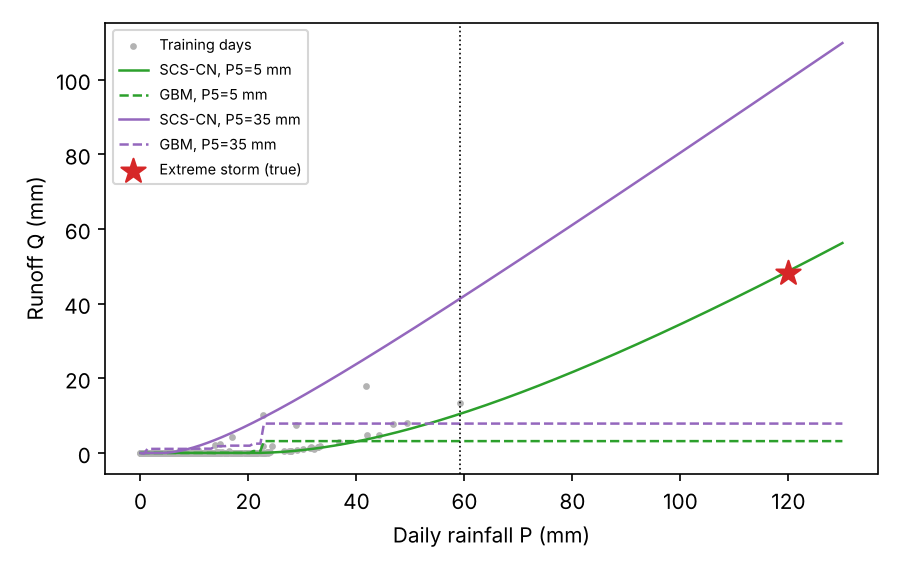
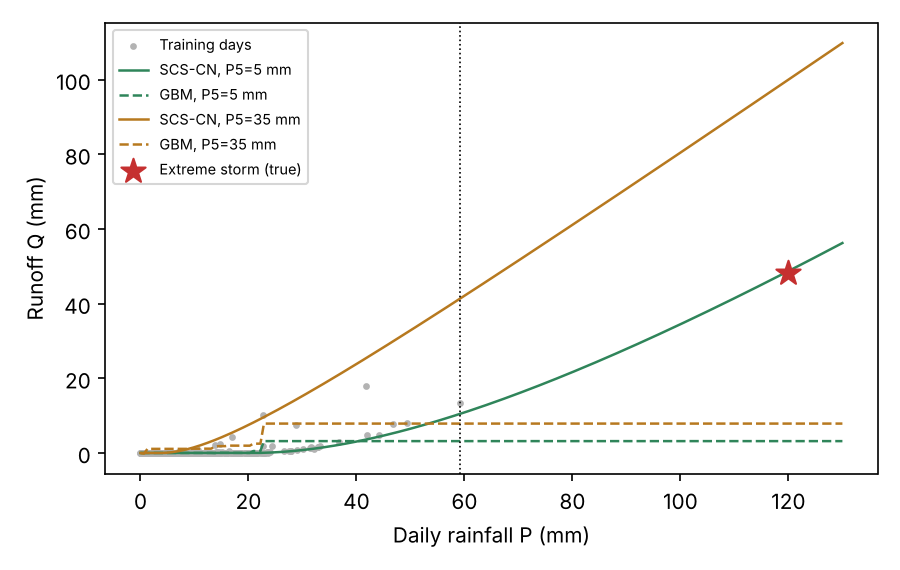
Renumber chapter 16 figures, unify plot colours in chapters 13-18, clearer message when Kaggle data are missing

diff --git a/code/ch15.py b/code/ch15.py
@@ -40,10 +40,10 @@ print("  GBM 10-90%% interval coverage: all 2025=%.0f%%  heatwave=%.0f%% (nomina
 fig, ax = plt.subplots(figsize=(9, 3.6))
 w = (d[te] >= "2025-06-15") & (d[te] <= "2025-09-15")
 dd = d[te][w]
-ax.fill_between(dd, qs[0.1][w], qs[0.9][w], color="tab:blue", alpha=0.2, label="GBM 10-90% interval")
+ax.fill_between(dd, qs[0.1][w], qs[0.9][w], color="#2B6CB0", alpha=0.2, label="GBM 10-90% interval")
 ax.plot(dd, yt[w], "k", lw=1.2, label="Observed")
-ax.plot(dd, pg[w], color="tab:blue", lw=1, label="GBM")
-ax.plot(dd, pl[w], color="tab:red", lw=1, ls="--", label="Linear with T and (T-28)+^2")
+ax.plot(dd, pg[w], color="#2B6CB0", lw=1, label="GBM")
+ax.plot(dd, pl[w], color="#C53030", lw=1, ls="--", label="Linear with T and (T-28)+^2")
 ax.axvspan(pd.Timestamp("2025-08-05"), pd.Timestamp("2025-08-18"), color="orange", alpha=0.15, label="Heatwave (unseen T)")
 ax.set_ylabel("Demand (1000 m3/day)"); ax.legend(fontsize=7, ncol=2); ax.tick_params(axis="x", labelsize=8)
 plt.tight_layout(); plt.savefig("fig/fig15_1_demand.png", dpi=150); plt.close()
@@ -94,10 +94,10 @@ x = dma(True, 2.0)
 m, s = x[:30].mean(), x[:30].std(ddof=1); z = (x - m) / s; c = np.zeros(len(x))
 for i in range(30, len(x)): c[i] = max(0, c[i - 1] + z[i] - 0.5)
 ax[0].plot(x, "k", lw=1, label="Min night flow")
-ax[0].axhline(m + 3 * s, color="tab:orange", ls="--", label="Shewhart limit")
-ax[0].axvline(60, color="tab:red", ls=":", label="Leak starts (+2 m3/h)")
+ax[0].axhline(m + 3 * s, color="#C05621", ls="--", label="Shewhart limit")
+ax[0].axvline(60, color="#C53030", ls=":", label="Leak starts (+2 m3/h)")
 ax[0].set_xlabel("Day"); ax[0].set_ylabel("MNF (m3/h)"); ax[0].legend(fontsize=7, loc="upper left")
-a2 = ax[0].twinx(); a2.plot(c, color="tab:blue", lw=1); a2.axhline(5, color="tab:blue", ls=":", lw=0.8); a2.set_ylabel("CUSUM", color="tab:blue")
+a2 = ax[0].twinx(); a2.plot(c, color="#2B6CB0", lw=1); a2.axhline(5, color="#2B6CB0", ls=":", lw=0.8); a2.set_ylabel("CUSUM", color="#2B6CB0")
 for (name, fa, res), mk in zip(rows, ["o", "s", "^"]):
     ax[1].plot(sizes, [100 * r[0] for r in res], marker=mk, label=name)
 ax[1].set_xlabel("Leak size (m3/h)"); ax[1].set_ylabel("Detected within 30 d (%)"); ax[1].legend(fontsize=7)
@@ -135,11 +135,11 @@ print("  extreme storm P=%.0f mm, P5=%.0f mm: true Q=%.1f mm  GBM=%.1f mm  SCS-C
 fig, ax = plt.subplots(figsize=(6, 3.8))
 ax.scatter(P[tr & (P > 0)], Q[tr & (P > 0)], s=5, color="0.7", label="Training days")
 pp = np.linspace(0, 130, 200)
-for p5, col in [(5, "tab:green"), (35, "tab:purple")]:
+for p5, col in [(5, "#2F855A"), (35, "#B7791F")]:
     cn = cn1 if p5 < 13 else (cn2 if p5 < 28 else cn3)
     ax.plot(pp, scs(pp, cn), color=col, lw=1.2, label="SCS-CN, P5=%d mm" % p5)
     ax.plot(pp, gbq.predict(np.column_stack([pp, np.full_like(pp, p5)])), color=col, ls="--", lw=1.2, label="GBM, P5=%d mm" % p5)
-ax.scatter([P[i]], [Q[i]], marker="*", s=150, color="tab:red", zorder=5, label="Extreme storm (true)")
+ax.scatter([P[i]], [Q[i]], marker="*", s=150, color="#C53030", zorder=5, label="Extreme storm (true)")
 ax.axvline(P[tr].max(), color="k", ls=":", lw=0.8)
 ax.set_xlabel("Daily rainfall P (mm)"); ax.set_ylabel("Runoff Q (mm)"); ax.legend(fontsize=7)
 plt.tight_layout(); plt.savefig("fig/fig15_3_runoff.png", dpi=150); plt.close()

diff --git a/code/ch14.py b/code/ch14.py
@@ -57,8 +57,8 @@ w1 = (test.index >= "2026-01-11") & (test.index < "2026-01-18")
 w2 = (test.index >= "2026-03-01") & (test.index < "2026-03-08")
 for a, w, t in [(ax[0], w1, "Normal week (Jan 2026)"), (ax[1], w2, "Ramadan week (Mar 2026)")]:
     a.plot(test.index[w], test.y.values[w], "k", lw=1.2, label="Observed")
-    a.plot(test.index[w], pn[w], color="tab:orange", lw=1, ls="--", label="Seasonal naive (t-168h)")
-    a.plot(test.index[w], pg[w], color="tab:blue", lw=1, label="GBM + calendar")
+    a.plot(test.index[w], pn[w], color="#C05621", lw=1, ls="--", label="Seasonal naive (t-168h)")
+    a.plot(test.index[w], pg[w], color="#2B6CB0", lw=1, label="GBM + calendar")
     a.set_title(t); a.set_ylabel("Vehicles / hour"); a.tick_params(axis="x", rotation=30, labelsize=7)
 ax[0].legend(fontsize=7)
 plt.tight_layout(); plt.savefig("fig/fig14_1_traffic.png", dpi=150); plt.close()
@@ -132,10 +132,10 @@ for prof in ["steady", "shift"]:
     print("  demand=%-6s mean delay Webster fixed=%.1f  Webster time-of-day=%.1f  Q-learning=%.1f s/veh" % (prof, np.mean(w), np.mean(td), np.mean(rl)))
 fig, ax = plt.subplots(figsize=(6, 3.6))
 cv = np.array(curve)
-ax.plot(cv[:, 0], cv[:, 1], "o-", color="tab:blue", label="Q-learning, steady demand")
-ax.plot(cv[:, 0], cv[:, 2], "s-", color="tab:red", label="Q-learning, shifting peak")
-ax.axhline(res["steady"][0], color="tab:blue", ls="--", label="Webster fixed, steady")
-ax.axhline(res["shift"][0], color="tab:red", ls="--", label="Webster fixed, shifting")
+ax.plot(cv[:, 0], cv[:, 1], "o-", color="#2B6CB0", label="Q-learning, steady demand")
+ax.plot(cv[:, 0], cv[:, 2], "s-", color="#C53030", label="Q-learning, shifting peak")
+ax.axhline(res["steady"][0], color="#2B6CB0", ls="--", label="Webster fixed, steady")
+ax.axhline(res["shift"][0], color="#C53030", ls="--", label="Webster fixed, shifting")
 ax.set_yscale("log"); ax.set_xlabel("Training episodes (1 h each)"); ax.set_ylabel("Mean delay (s/veh, log scale)"); ax.legend(fontsize=7)
 plt.tight_layout(); plt.savefig("fig/fig14_2_signal.png", dpi=150); plt.close()
 
@@ -176,10 +176,10 @@ print("  overlap with true top-5%% excess sites: raw=%d/%d EB-excess=%d/%d" %
       (len(tt & set(top_raw)), k, len(tt & set(np.argsort(-(eb - mu_hat))[:k])), k))
 fig, ax = plt.subplots(figsize=(6, 3.8))
 ax.scatter(y1, y2, s=6, color="0.75", label="All segments")
-ax.scatter(y1[top_raw], y2[top_raw], s=14, color="tab:red", label="Top 5% by raw count")
+ax.scatter(y1[top_raw], y2[top_raw], s=14, color="#C53030", label="Top 5% by raw count")
 ax.plot([0, y1.max()], [0, y1.max()], "k--", lw=0.8)
-ax.axhline(y2[top_raw].mean(), color="tab:red", ls=":", lw=1)
-ax.axvline(y1[top_raw].mean(), color="tab:red", ls=":", lw=1)
+ax.axhline(y2[top_raw].mean(), color="#C53030", ls=":", lw=1)
+ax.axvline(y1[top_raw].mean(), color="#C53030", ls=":", lw=1)
 ax.set_xlabel("Crashes, period 1 (3 yr)"); ax.set_ylabel("Crashes, period 2 (3 yr)"); ax.legend(fontsize=8)
 plt.tight_layout(); plt.savefig("fig/fig14_3_hotspots.png", dpi=150); plt.close()
 

diff --git a/code/ch16.py b/code/ch16.py
@@ -65,12 +65,12 @@ print("  support reaction check w(1): PINN=%.5f data-only=%.5f (should be 0)" % 
 
 fig, ax = plt.subplots(1, 2, figsize=(10, 3.6))
 ax[0].plot(xs, we, "k", lw=2, label="Exact")
-ax[0].plot(xs, wp, "--", color="tab:orange", lw=1.5, label="PINN (no data)")
+ax[0].plot(xs, wp, "--", color="#C05621", lw=1.5, label="PINN (no data)")
 ax[0].set_xlabel("x / L"); ax[0].set_ylabel("w EI / (q L^4)"); ax[0].invert_yaxis(); ax[0].legend(fontsize=8)
 ax[0].set_title("Forward problem")
 ax[1].plot(xs, wt, "k", lw=2, label="True (EI = 0.8)")
-ax[1].plot(xs, wi, "--", color="tab:blue", lw=1.5, label="Inverse PINN (EI = %.3f)" % EI_hat)
-ax[1].plot(xs, wd, ":", color="tab:red", lw=1.8, label="Data-only MLP")
+ax[1].plot(xs, wi, "--", color="#2B6CB0", lw=1.5, label="Inverse PINN (EI = %.3f)" % EI_hat)
+ax[1].plot(xs, wd, ":", color="#C53030", lw=1.8, label="Data-only MLP")
 ax[1].scatter(xsens, wsens, color="k", zorder=5, label="5 sensors")
 ax[1].set_xlabel("x / L"); ax[1].set_ylabel("w (nondimensional)"); ax[1].invert_yaxis(); ax[1].legend(fontsize=7)
 ax[1].set_title("Inverse problem")
@@ -105,8 +105,8 @@ print("  deflection increase implied at month 71: %.1f%% (true %.1f%%)" % (100 *
 fig, ax = plt.subplots(figsize=(7, 3.6))
 ax.scatter(months, z, s=10, color="0.6", label="Single-month estimate (f/f0)^2")
 ax.plot(months, theta, "k", lw=2, label="True stiffness ratio")
-ax.plot(months, M, color="tab:blue", lw=1.5, label="Twin posterior mean")
-ax.fill_between(months, M - 2 * S, M + 2 * S, color="tab:blue", alpha=0.2, label="95% band")
-ax.axhline(0.97, color="tab:red", ls="--", lw=1, label="Inspection trigger 0.97")
+ax.plot(months, M, color="#2B6CB0", lw=1.5, label="Twin posterior mean")
+ax.fill_between(months, M - 2 * S, M + 2 * S, color="#2B6CB0", alpha=0.2, label="95% band")
+ax.axhline(0.97, color="#C53030", ls="--", lw=1, label="Inspection trigger 0.97")
 ax.set_xlabel("Month"); ax.set_ylabel("Stiffness ratio theta"); ax.legend(fontsize=7, loc="lower left")
-plt.tight_layout(); plt.savefig("fig/fig16_2_twin.png", dpi=150); plt.close()
+plt.tight_layout(); plt.savefig("fig/fig16_3_twin.png", dpi=150); plt.close()

diff --git a/code/ch17.py b/code/ch17.py
@@ -74,8 +74,8 @@ for q, ans in cases:
 
 fig, ax = plt.subplots(figsize=(7.5, 3.6))
 names = list(res); x = np.arange(len(names))
-ax.bar(x - 0.18, [100 * res[n][0] for n in names], 0.36, label="hit@1", color="tab:blue")
-ax.bar(x + 0.18, [100 * res[n][1] for n in names], 0.36, label="hit@3", color="tab:orange")
+ax.bar(x - 0.18, [100 * res[n][0] for n in names], 0.36, label="hit@1", color="#2B6CB0")
+ax.bar(x + 0.18, [100 * res[n][1] for n in names], 0.36, label="hit@3", color="#C05621")
 ax.set_xticks(x); ax.set_xticklabels(names, rotation=15, fontsize=8); ax.set_ylabel("Questions answered (%)")
 ax.set_ylim(0, 100); ax.legend(fontsize=8)
 for i, n in enumerate(names):
@@ -87,12 +87,12 @@ fig, ax = plt.subplots(figsize=(9, 2.6)); ax.axis("off")
 boxes = [("Engineer's\nquestion", 0.06), ("Normalise +\nretrieve top-3", 0.25), ("Snippets with\nclause IDs", 0.44),
          ("LLM drafts answer\nciting snippets", 0.63), ("Numeric & citation\nguard", 0.80), ("Engineer\nreviews & signs", 0.95)]
 for t, xc in boxes:
-    ax.add_patch(plt.Rectangle((xc - 0.075, 0.3), 0.15, 0.4, fill=True, fc="#e8f0fb", ec="tab:blue"))
+    ax.add_patch(plt.Rectangle((xc - 0.075, 0.3), 0.15, 0.4, fill=True, fc="#e8f0fb", ec="#2B6CB0"))
     ax.text(xc, 0.5, t, ha="center", va="center", fontsize=8)
 for (_, a), (_, b) in zip(boxes[:-1], boxes[1:]):
     ax.annotate("", xy=(b - 0.077, 0.5), xytext=(a + 0.077, 0.5), arrowprops=dict(arrowstyle="->"))
-ax.annotate("", xy=(0.63, 0.28), xytext=(0.80, 0.28), arrowprops=dict(arrowstyle="->", color="tab:red", connectionstyle="arc3,rad=0.5"))
-ax.text(0.715, 0.05, "flag -> regenerate or escalate", ha="center", fontsize=7, color="tab:red")
+ax.annotate("", xy=(0.63, 0.28), xytext=(0.80, 0.28), arrowprops=dict(arrowstyle="->", color="#C53030", connectionstyle="arc3,rad=0.5"))
+ax.text(0.715, 0.05, "flag -> regenerate or escalate", ha="center", fontsize=7, color="#C53030")
 ax.set_xlim(0, 1.03); ax.set_ylim(0, 1)
 plt.tight_layout(); plt.savefig("fig/fig17_2_pipeline.png", dpi=150); plt.close()
 

diff --git a/code/ch18.py b/code/ch18.py
@@ -27,9 +27,9 @@ print("  'best seed' random split vs honest median by mix: %.2f vs %.2f MPa (opt
 
 fig, ax = plt.subplots(figsize=(6.5, 3.5))
 bins = np.linspace(min(rand.min(), grp.min()) - 0.1, max(rand.max(), grp.max()) + 0.1, 22)
-ax.hist(rand, bins=bins, alpha=0.6, color="tab:orange", label="Random split (leaky)")
-ax.hist(grp, bins=bins, alpha=0.6, color="tab:blue", label="Split by mix (honest)")
-ax.axvline(rand.min(), color="tab:orange", ls="--", lw=1); ax.text(rand.min(), ax.get_ylim()[1] * 0.9, " best seed", color="tab:orange", fontsize=8)
+ax.hist(rand, bins=bins, alpha=0.6, color="#C05621", label="Random split (leaky)")
+ax.hist(grp, bins=bins, alpha=0.6, color="#2B6CB0", label="Split by mix (honest)")
+ax.axvline(rand.min(), color="#C05621", ls="--", lw=1); ax.text(rand.min(), ax.get_ylim()[1] * 0.9, " best seed", color="#C05621", fontsize=8)
 ax.set_xlabel("Test MAE (MPa)"); ax.set_ylabel("Number of seeds (of 30)"); ax.legend(fontsize=8)
 plt.tight_layout(); plt.savefig("fig/fig18_1_seeds.png", dpi=150); plt.close()
 
@@ -63,7 +63,7 @@ for k, p in P.items():
           (k, brier_score_loss(yt, p), ece(p, yt), p.mean(), yt.mean(), (p > 0.5).sum(), yt[p > 0.5].sum()))
 fig, ax = plt.subplots(figsize=(5, 4.2))
 edges = np.linspace(0, 1, 11)
-for (k, p), col, mk in zip(P.items(), ["tab:red", "tab:green", "tab:blue"], ["o", "s", "^"]):
+for (k, p), col, mk in zip(P.items(), ["#C53030", "#2F855A", "#2B6CB0"], ["o", "s", "^"]):
     xs, ys = [], []
     for a, b in zip(edges[:-1], edges[1:]):
         sel = (p >= a) & (p < b) if b < 1 else (p >= a)

diff --git a/code/ch13_elasto.py b/code/ch13_elasto.py
@@ -62,12 +62,12 @@ fig, ax = plt.subplots(1, 2, figsize=(10, 3.6))
 ff = np.linspace(100, 2000, 200); ww = 2 * np.pi * ff
 ax[0].scatter(f, c_obs, color="k", s=15, label="Measured (synthetic, 2% noise)")
 ax[0].plot(ff, c_at(true["mu"], true["eta"], true["a"], ww), "k", lw=1, label="True (spring-pot, a=0.35)")
-ax[0].plot(ff, c_at(pk[0], pk[1], 1.0, ww), "--", color="tab:red", label="Kelvin-Voigt fit")
-ax[0].plot(ff, c_at(*pf, ww), ":", color="tab:blue", lw=2, label="KVFD fit")
+ax[0].plot(ff, c_at(pk[0], pk[1], 1.0, ww), "--", color="#C53030", label="Kelvin-Voigt fit")
+ax[0].plot(ff, c_at(*pf, ww), ":", color="#2B6CB0", lw=2, label="KVFD fit")
 ax[0].axvspan(1000, 2000, color="0.9"); ax[0].text(1050, ax[0].get_ylim()[0] + 0.3, "extrapolation", fontsize=8)
 ax[0].set_xlabel("Frequency (Hz)"); ax[0].set_ylabel("Shear-wave phase velocity (m/s)"); ax[0].legend(fontsize=7)
-ax[1].scatter(a_t, LS[:, 2], s=6, color="tab:orange", label="Least squares")
-ax[1].scatter(a_t, P[:, 2], s=6, color="tab:blue", label="Learned (GBM)")
+ax[1].scatter(a_t, LS[:, 2], s=6, color="#C05621", label="Least squares")
+ax[1].scatter(a_t, P[:, 2], s=6, color="#2B6CB0", label="Learned (GBM)")
 ax[1].plot([0.1, 0.9], [0.1, 0.9], "k--", lw=0.8)
 ax[1].set_xlabel("True fractional order alpha"); ax[1].set_ylabel("Estimated alpha"); ax[1].legend(fontsize=7)
 plt.tight_layout(); plt.savefig("fig/fig13_4_elasto.png", dpi=150); plt.close()

diff --git a/code/ch_kaggle.py b/code/ch_kaggle.py
@@ -15,6 +15,12 @@ from sklearn.metrics import r2_score, mean_absolute_error
 from sklearn.inspection import permutation_importance
 
 D = os.environ.get("KAGGLE_DIR", "kaggle_dl"); F = "fig"; os.makedirs(F, exist_ok=True)
+_need = ["slope_stability/slope_stability_dataset.csv", "sustainable_concrete/sustainable_concrete_dataset.csv",
+         "frp_bond/concrete_data.csv", "seattle_energy/2016-building-energy-benchmarking.csv"]
+_miss = [n for n in _need if not os.path.exists(os.path.join(D, n))]
+if _miss or not glob.glob(f"{D}/melbourne_ww/*.csv"):
+    raise SystemExit("Kaggle data not found in '%s'. Download the five datasets listed in catalog/ "
+                     "(see Appendix B) into that folder, or set KAGGLE_DIR. Missing: %s" % (D, ", ".join(_miss) or "melbourne_ww/*.csv"))
 out = {}
 
 # ---------- K1: data audit ----------

diff --git a/code/solutions.py b/code/solutions.py
@@ -17,6 +17,6 @@ cn3 = 23*80/(10+0.13*80)
 print("  CN=80: Q=%.1f mm ; CN_III=%.1f: Q=%.1f mm" % (scs(60, 80), cn3, scs(60, cn3)))
 print("Ch15 Ex2: leak 2 m3/h for one year")
 v = 2*24*365; print("  volume=%d m3 = weekly use of %.0f households for a year (4 m3/week -> %.0f m3/yr)" % (v, v/(4*52), 4*52))
-print("Ch18 Ex1: predicted 0.8 for 100 bridges, 50 failed -> observed 0.50, overconfident by %.0f points" % ((0.8-0.5)*100))
+print("Ch18 Ex1: predicted 0.8 for 100 slopes, 50 failed -> observed 0.50, overconfident by %.0f points" % ((0.8-0.5)*100))
 print("Ch10/Ch18: reliability index for Pf=7.5%%: beta=%.2f ; Pf for beta=3.0: %.2e" % (-norm.ppf(0.075), norm.cdf(-3)))
 print("Ch16 Ex1: cantilever max deflection (EI w''''=q, L=1): exact qL^4/(8EI) = %.4f" % (1/8))

diff --git a/code/ex_c.py b/code/ex_c.py
@@ -56,7 +56,7 @@ for n_,c in [(1,O),(8,B)]:
     m_=np.trapezoid(grid*post,grid); l_,h_=grid[np.searchsorted(cdf,0.025)],grid[np.searchsorted(cdf,0.975)]
     print(f"  after {n_} test(s): posterior mean {m_/1e9:.2f}, 95% interval {l_/1e9:.2f}-{h_/1e9:.2f} GN.m2"); ax.plot(grid/1e9,post*1e9,color=c,label=f"posterior after {n_} test{'s' if n_>1 else ''}")
 ax.axvline(EI_true/1e9,color=R,ls=":"); ax.set_xlabel("EI (GN.m2)"); ax.set_ylabel("Probability density"); ax.legend(frameon=False,fontsize=8); clean(ax)
-fig.tight_layout(); fig.savefig("fig/fig16_4_bayes.png",dpi=200); plt.close()
+fig.tight_layout(); fig.savefig("fig/fig16_5_bayes.png",dpi=200); plt.close()
 
 # ---- Example 17.3: how good is the numeric guard? a systematic test
 from ch17_corpus import DOCS

diff --git a/code/ex_diagrams.py b/code/ex_diagrams.py
@@ -62,7 +62,7 @@ for i,(t,sub) in enumerate([("Digital model","no automatic data flow"),("Digital
     if i>=1: arr(ax,(x+1.42,2.9),(x+1.98,2.9),c=G); ax.text(x+1.7,3.25,"data",ha="center",fontsize=7,color=G)
     if i==2: arr(ax,(x+1.98,2.5),(x+1.42,2.5),c=R); ax.text(x+1.7,1.95,"decision / control",ha="center",fontsize=7,color=R)
 ax.text(6,0.8,"Example 16.3 updates one stiffness parameter from frequency and raises an inspection alert: a digital shadow.",ha="center",fontsize=8)
-save(fig,"fig16_5_twinlevels.png")
+save(fig,"fig16_2_twinlevels.png")
 
 # 13.6 monitoring pipeline
 fig,ax=plt.subplots(figsize=(9,2.2)); ax.axis("off"); ax.set_xlim(0,1); ax.set_ylim(0,1)

diff --git a/code/ch16b.py b/code/ch16b.py
@@ -21,4 +21,4 @@ for k, c in zip(pred, ["#718096", "#c53030", "#2b6cb0"]):
     ax.scatter(P[m], pred[k][m], s=6, color=c, label=k, alpha=.6)
 ax.scatter(P[m], Q[m], s=6, color="k", label="observed", alpha=.5); ax.axvline(60, ls="--", c="k", lw=.8); ax.text(62, 2, "outside training range", fontsize=8)
 ax.set_xlabel("Storm depth P (mm)"); ax.set_ylabel("Runoff Q (mm), CN 75-81"); ax.legend(frameon=False, fontsize=7); ax.spines[["top", "right"]].set_visible(False)
-fig.tight_layout(); fig.savefig("fig/fig16_3_hybrid.png", dpi=200)
+fig.tight_layout(); fig.savefig("fig/fig16_4_hybrid.png", dpi=200)

diff --git a/code/design/diagrams3.py b/code/design/diagrams3.py
@@ -35,4 +35,4 @@ for i, (t, sub, c, up, down) in enumerate(lv):
     arrow(ax, (x0+2.12, 1.72), (x0+1.63, 1.72), cu, 2.2, ls="-" if up == "آلي" else "--")
     arrow(ax, (x0+1.63, 1.28), (x0+2.12, 1.28), cd, 2.2, ls="-" if down == "آلي" else "--")
     ax.text(x0+1.875, 0.55, f"بيانات ← نموذج: {up}    قرار ← منشأة: {down}", ha="center", fontsize=10, color=NAVY)
-save(fig, F + "fig16_5_twinlevels.png")
+save(fig, F + "fig16_2_twinlevels.png")
